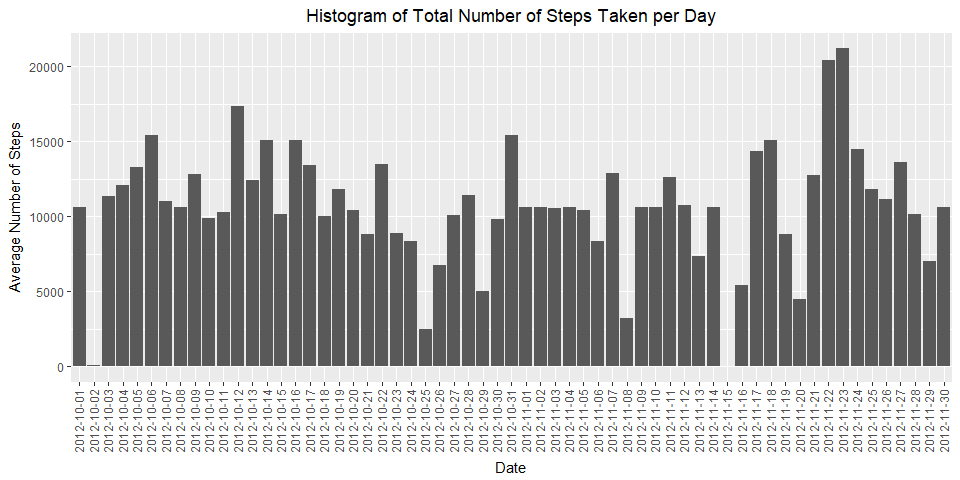
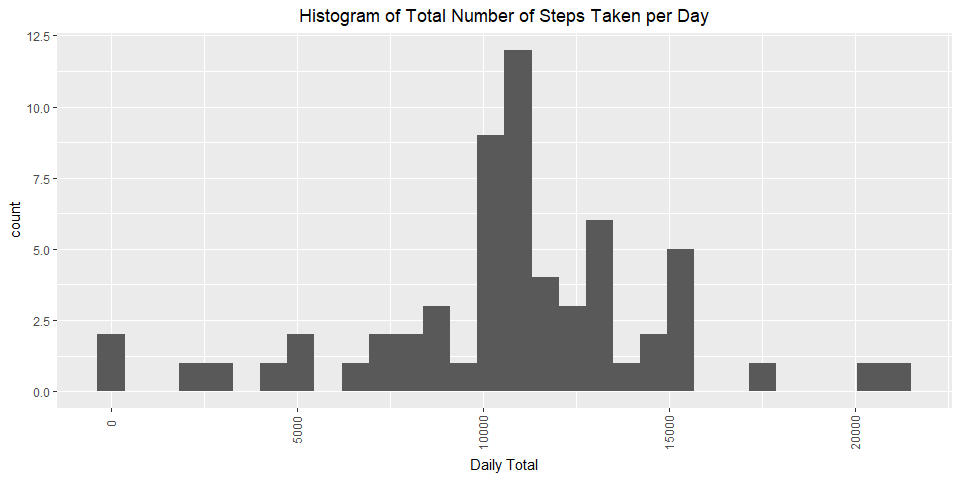
fix images, histo

diff --git a/PA1_template.html b/PA1_template.html
@@ -333,17 +333,15 @@ head(activity_data)</code></pre>
 <h2>What is mean total number of steps taken per day?</h2>
 <section id="daily-steps-distribution" class="level4">
 <h4>Daily Steps Distribution</h4>
-<pre class="r"><code>require(ggplot2)
-ggplot(data = activity_data) + 
-  geom_histogram(aes(y = steps, x = date), stat = &quot;identity&quot;) +
-  labs(x = &quot;Date&quot;, y = &quot;Average Number of Steps&quot;) + 
+<pre class="r"><code>stepsByDate &lt;- aggregate(activity_data$steps, by = list(date = activity_data$date), FUN = sum )
+
+require(ggplot2)
+ggplot(data = stepsByDate) + 
+  geom_histogram(aes(x)) +
+  labs(x = &quot;Daily Total&quot;) + 
   theme(plot.title = element_text(hjust = 0.5), axis.text.x = element_text(angle = 90, hjust = 0.8, vjust = 0.4)) +
   ggtitle(&quot;Histogram of Total Number of Steps Taken per Day&quot;)</code></pre>
[1 lines of base64/hex data omitted]
-<pre class="r"><code>stepsByDate &lt;- aggregate(activity_data$steps, by = list(date = activity_data$date), FUN = sum )</code></pre>
-</section>
-<section id="average-daily-steps" class="level4">
-<h4>Average Daily Steps</h4>
[1 lines of base64/hex data omitted]
 <pre class="r"><code>mean(stepsByDate$x, na.rm = TRUE)</code></pre>
 <pre><code>## [1] 10766.19</code></pre>
 </section>
@@ -392,17 +390,15 @@ newsteps &lt;- newsteps[, c(2,3,1)]</code></pre>
 </section>
 <section id="daily-steps-distribution---nas-replaced-with-mean" class="level4">
 <h4>Daily Steps Distribution - NA’s replaced with mean</h4>
-<pre class="r"><code>require(ggplot2)
-ggplot(data = newsteps) + 
-  geom_histogram(aes(y = steps, x = date), stat = &quot;identity&quot;) +
-  labs(x = &quot;Date&quot;, y = &quot;Average Number of Steps&quot;) + 
+<pre class="r"><code>stepsByDate &lt;- aggregate(newsteps$steps, by = list(date = newsteps$date), FUN = sum )
+
+require(ggplot2)
+ggplot(data = stepsByDate) + 
+  geom_histogram(aes(x)) +
+  labs(x = &quot;Daily Total&quot;) + 
   theme(plot.title = element_text(hjust = 0.5), axis.text.x = element_text(angle = 90, hjust = 0.8, vjust = 0.4)) +
   ggtitle(&quot;Histogram of Total Number of Steps Taken per Day&quot;)</code></pre>
[1 lines of base64/hex data omitted]
-<pre class="r"><code>stepsByDate &lt;- aggregate(newsteps$steps, by = list(date = newsteps$date), FUN = sum )</code></pre>
-</section>
-<section id="average-daily-steps-1" class="level4">
-<h4>Average Daily Steps</h4>
[1 lines of base64/hex data omitted]
 <pre class="r"><code>mean(stepsByDate$x, na.rm = TRUE)</code></pre>
 <pre><code>## [1] 10749.77</code></pre>
 </section>
@@ -413,7 +409,7 @@ ggplot(data = newsteps) +
 </section>
 <section id="results-of-imputing-data" class="level4">
 <h4>Results of Imputing Data</h4>
-<p>While it gives our graph more continuity, it doesn’t greatly affect the overall picture.</p>
+<p>Increases the daily steps distribution for all</p>
 </section>
 </section>
 <section id="are-there-differences-in-activity-patterns-between-weekdays-and-weekends" class="level2">

diff --git a/PA1_template.md b/PA1_template.md
@@ -47,19 +47,17 @@ summary(activity_data)
 #### Daily Steps Distribution
 
 ```r
+stepsByDate <- aggregate(activity_data$steps, by = list(date = activity_data$date), FUN = sum )
+
 require(ggplot2)
-ggplot(data = activity_data) + 
-  geom_histogram(aes(y = steps, x = date), stat = "identity") +
-  labs(x = "Date", y = "Average Number of Steps") + 
+ggplot(data = stepsByDate) + 
+  geom_histogram(aes(x)) +
+  labs(x = "Daily Total") + 
   theme(plot.title = element_text(hjust = 0.5), axis.text.x = element_text(angle = 90, hjust = 0.8, vjust = 0.4)) +
   ggtitle("Histogram of Total Number of Steps Taken per Day")
 ```
 
 ![](figures\Daily Step Histogram excl. NA-1.png)<!-- -->
-
-```r
-stepsByDate <- aggregate(activity_data$steps, by = list(date = activity_data$date), FUN = sum )
-```
 #### Average Daily Steps
 
 ```r
@@ -135,19 +133,17 @@ newsteps <- newsteps[, c(2,3,1)]
 #### Daily Steps Distribution - NA's replaced with mean
 
 ```r
+stepsByDate <- aggregate(newsteps$steps, by = list(date = newsteps$date), FUN = sum )
+
 require(ggplot2)
-ggplot(data = newsteps) + 
-  geom_histogram(aes(y = steps, x = date), stat = "identity") +
-  labs(x = "Date", y = "Average Number of Steps") + 
+ggplot(data = stepsByDate) + 
+  geom_histogram(aes(x)) +
+  labs(x = "Daily Total") + 
   theme(plot.title = element_text(hjust = 0.5), axis.text.x = element_text(angle = 90, hjust = 0.8, vjust = 0.4)) +
   ggtitle("Histogram of Total Number of Steps Taken per Day")
 ```
 
 ![](figures\Daily Step Histogram NA imputed-1.png)<!-- -->
-
-```r
-stepsByDate <- aggregate(newsteps$steps, by = list(date = newsteps$date), FUN = sum )
-```
 #### Average Daily Steps
 
 ```r
@@ -168,7 +164,7 @@ median(stepsByDate$x, na.rm = TRUE)
 ## [1] 10641
 ```
 #### Results of Imputing Data
-While it gives our graph more continuity, it doesn't greatly affect the overall picture.
+Increases the daily steps distribution for all
 
 ## Are there differences in activity patterns between weekdays and weekends?
 #### Add a column indicating week or weekend
